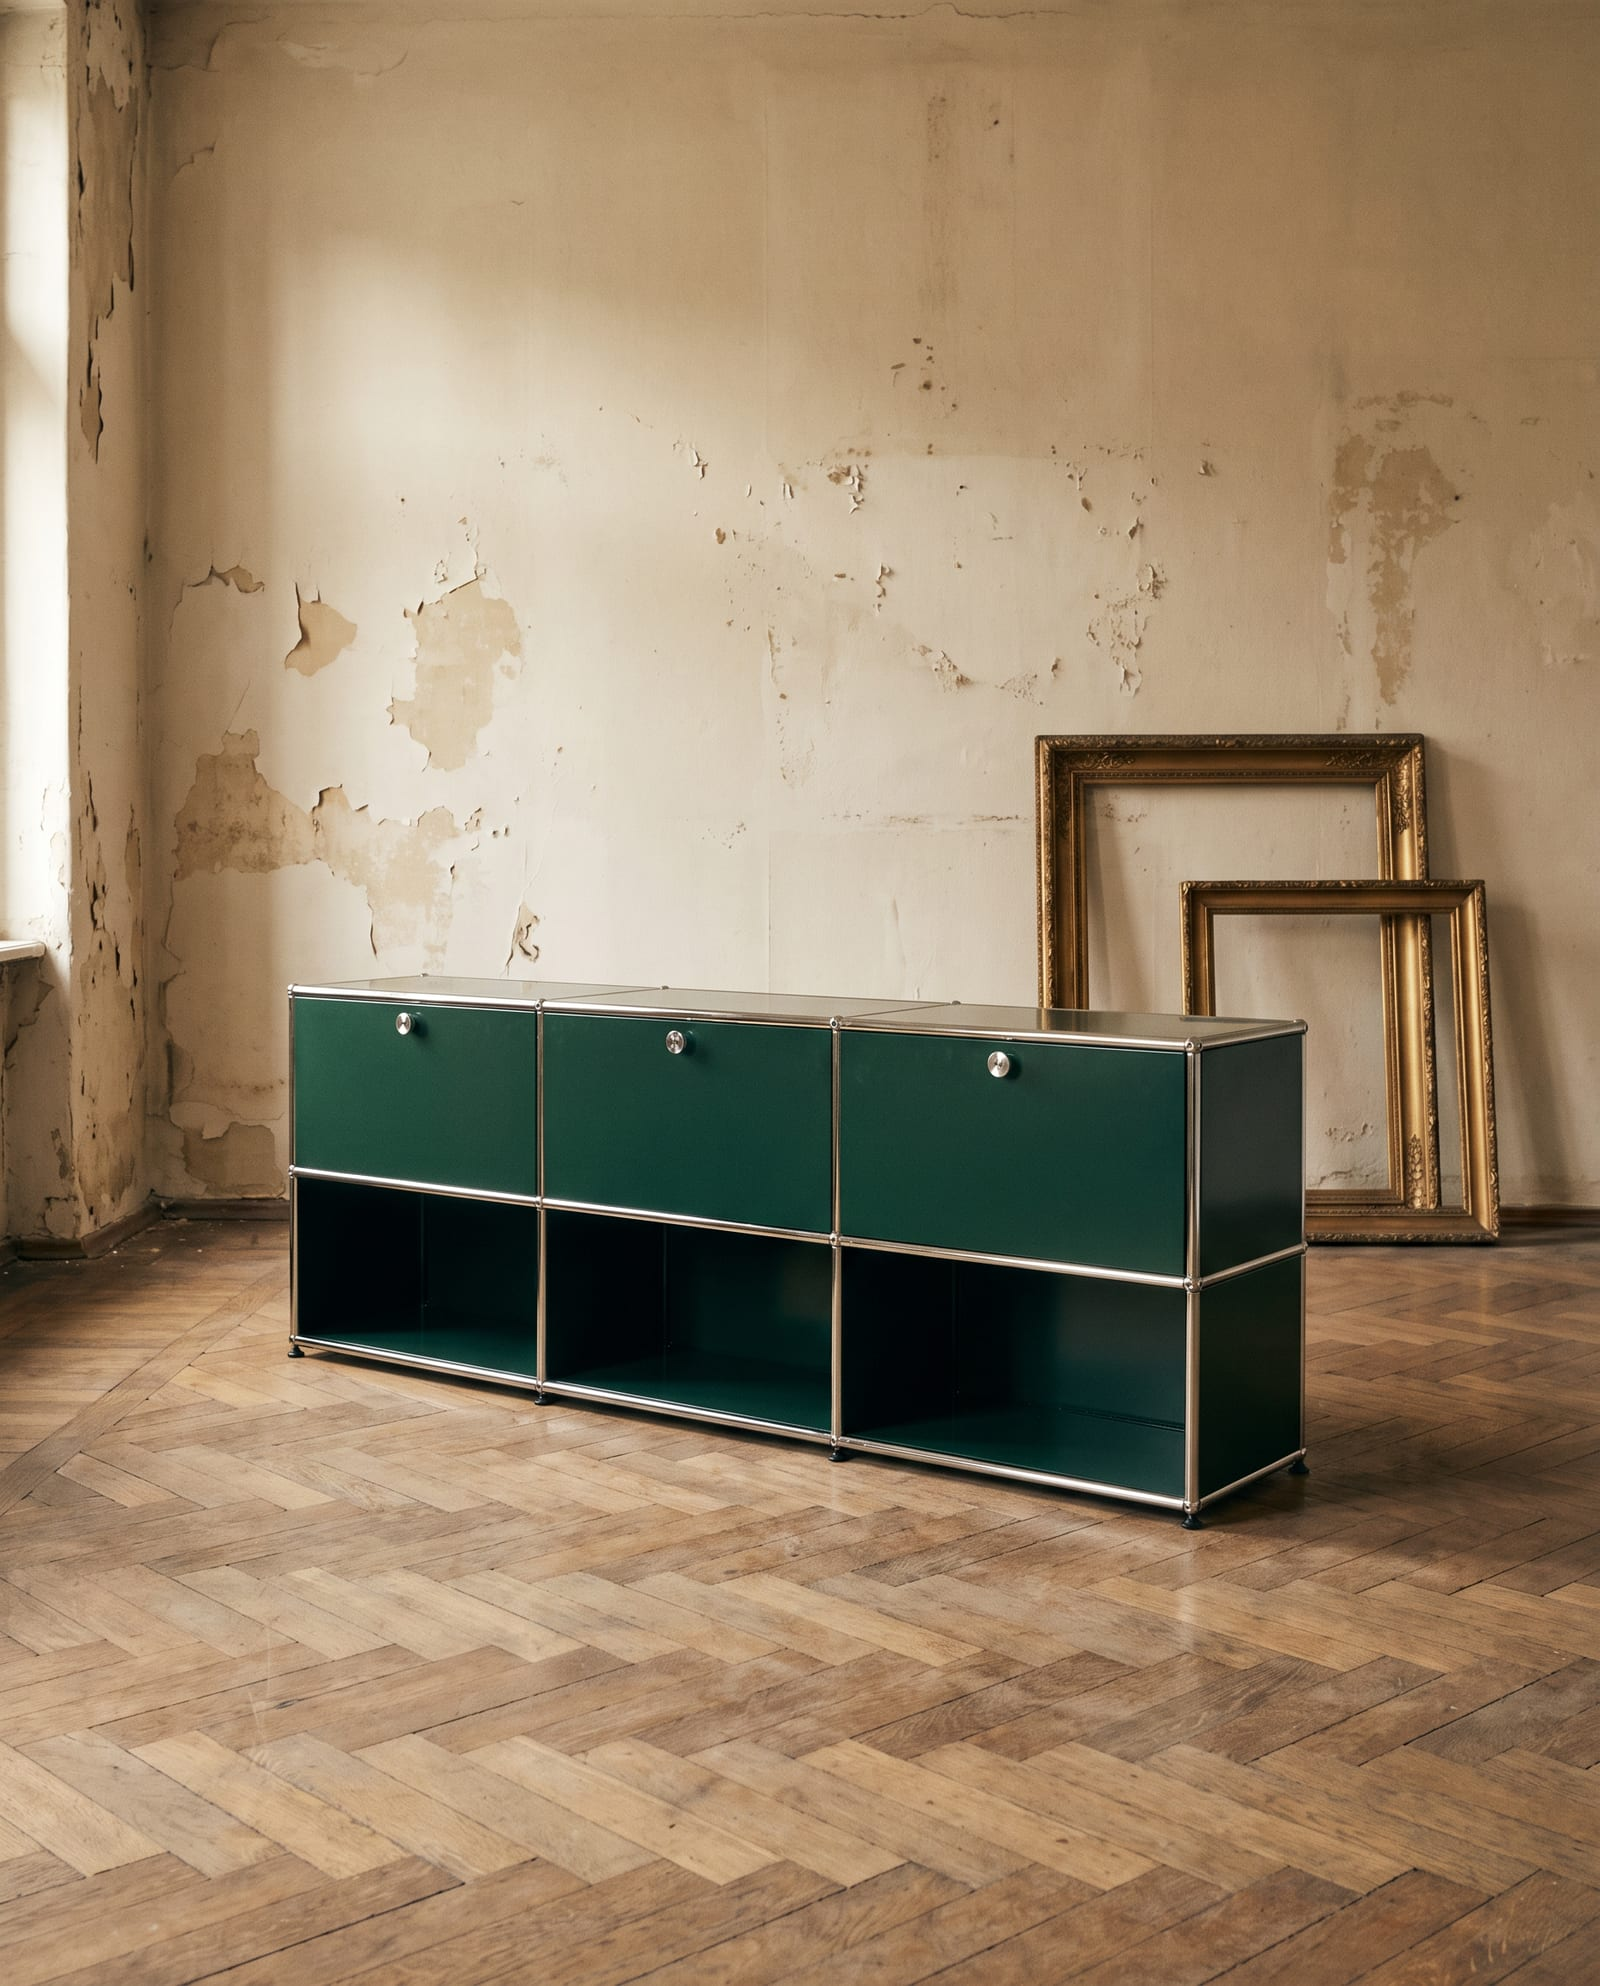
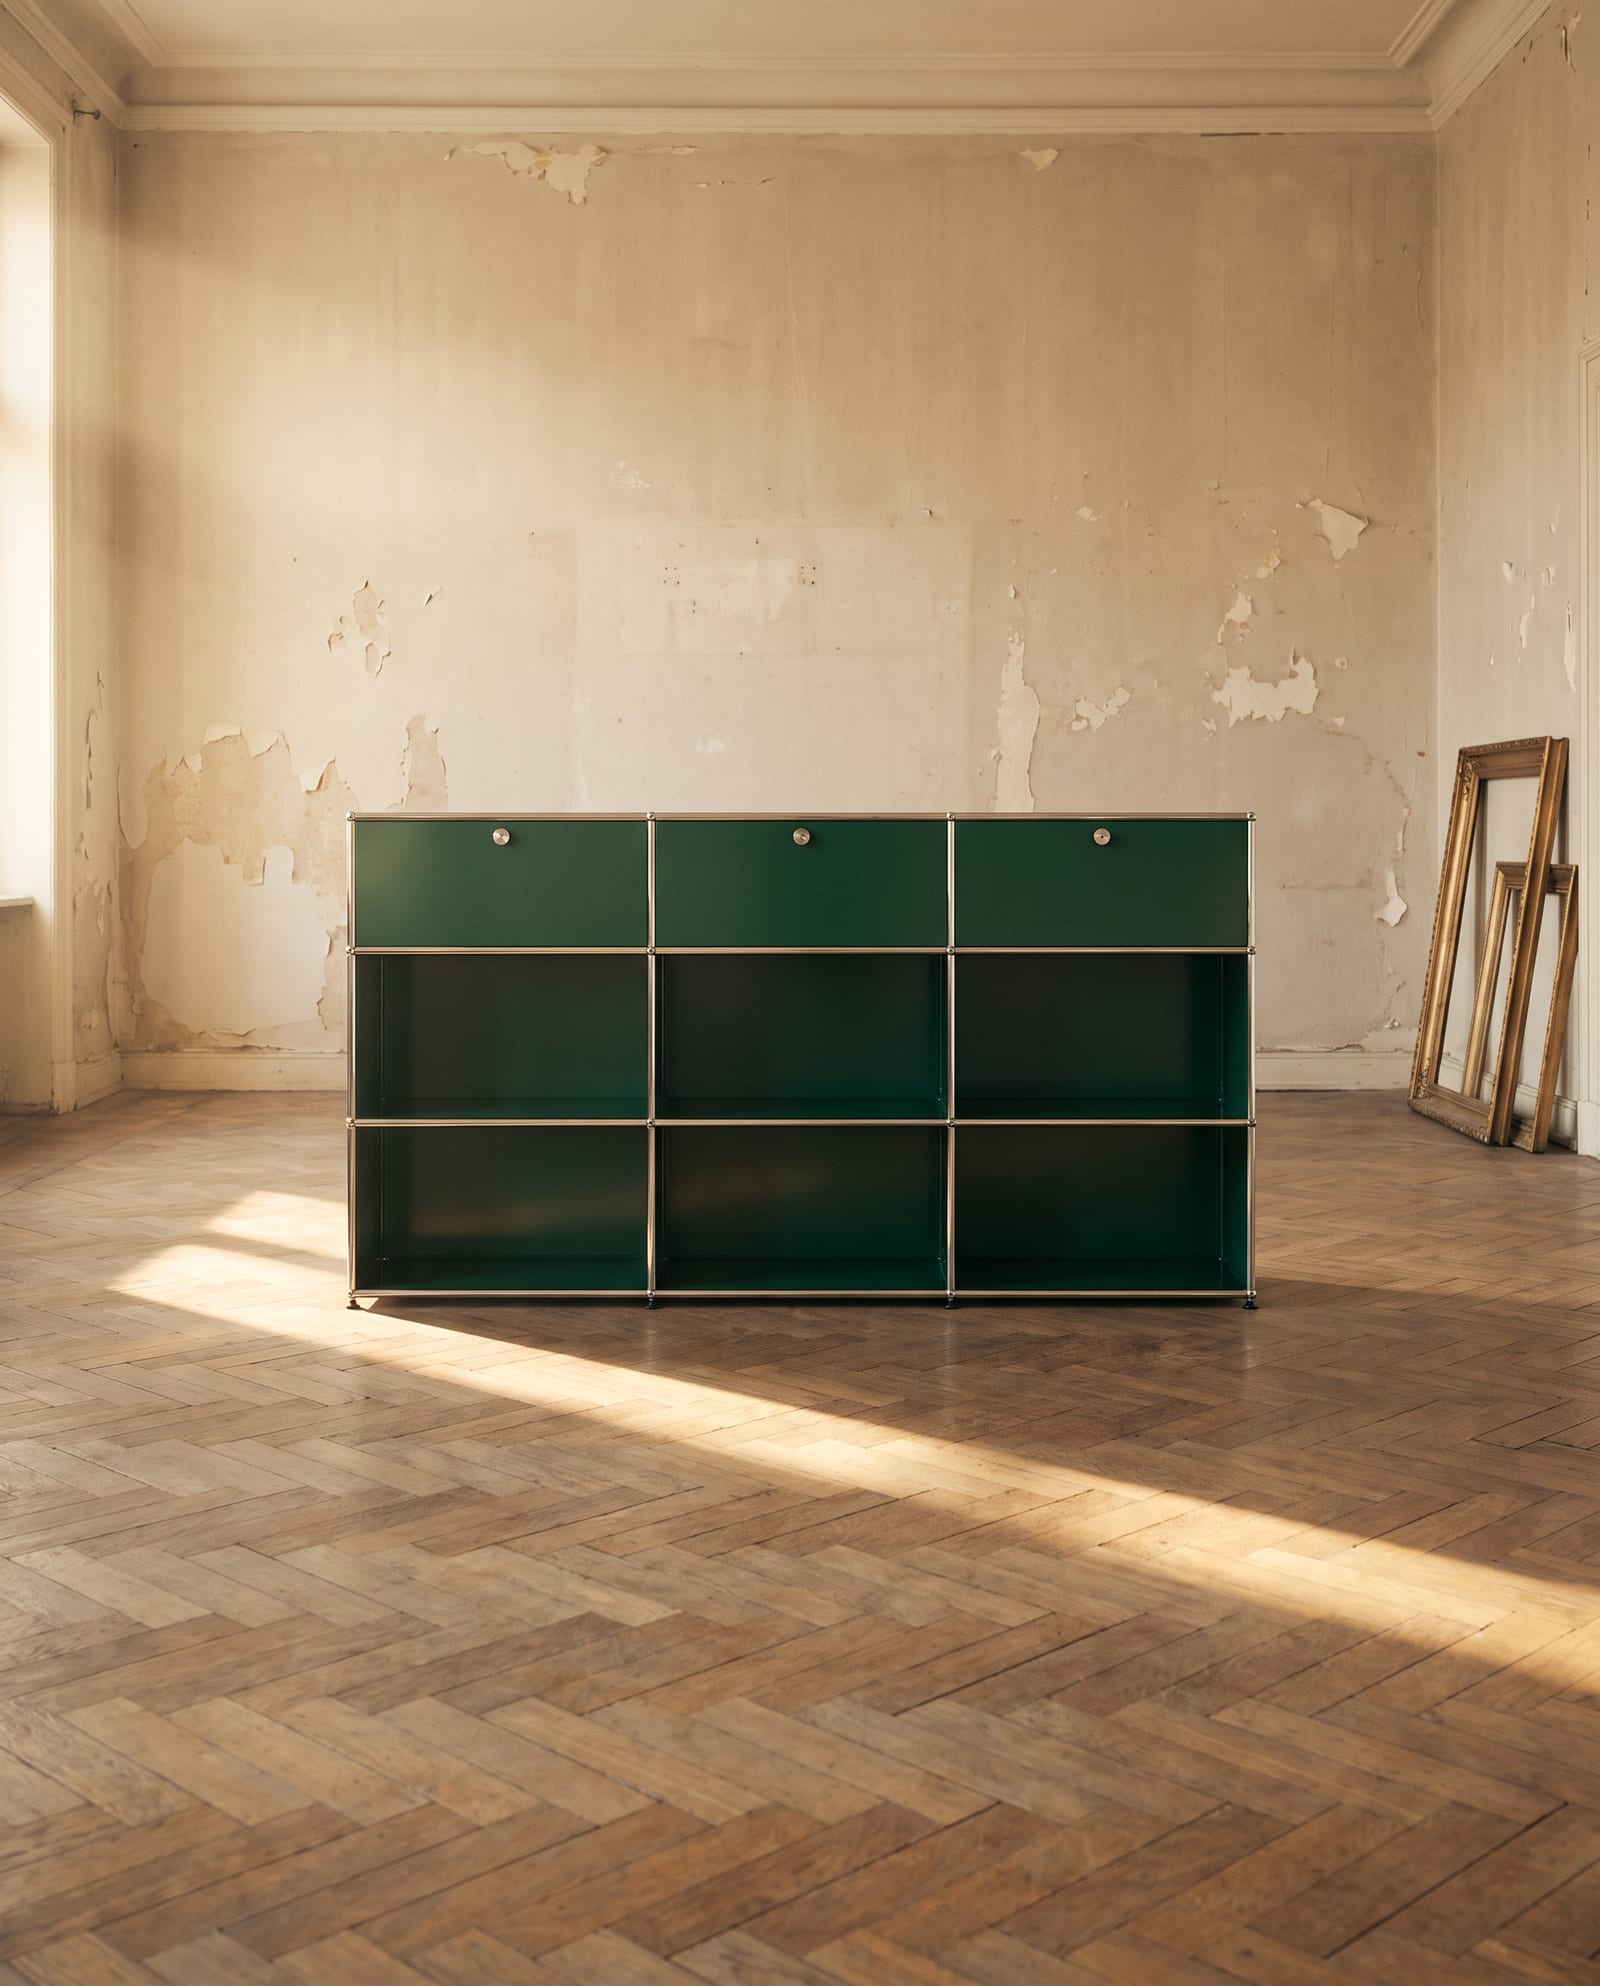
Runde 4 Design-Loop: Ein Lichtrezept fuer alle Kacheln, Claim einzeilig in Gips
GOLD/SAND/TANNE/KREIDE/RUBIN neu mit identischem Rezept (harter
Strahl von links, Schattenwurf nach rechts, leere Buehne, halbe
Framebreite Moebel); Hero-Claim einzeilig in Gips; aktiver Filter
mit doppelter Innenlinie.

diff --git a/app/globals.css b/app/globals.css
@@ -210,7 +210,7 @@ button {
 }
 
 .pill.is-active {
-  box-shadow: inset 0 0 0 1px var(--walnut);
+  box-shadow: inset 0 0 0 2px var(--linen), inset 0 0 0 3px var(--walnut);
   font-weight: 700;
 }
 
@@ -386,11 +386,19 @@ button {
 
 .hero-claim {
   margin-top: 20px;
-  font-size: 19px;
+  font-size: 17px;
   font-weight: 700;
   line-height: 1.4;
-  max-width: 28ch;
+  color: var(--linen);
+  white-space: nowrap;
   animation: rise 1s 0.26s var(--ease-out) both;
+}
+
+@media (max-width: 760px) {
+  .hero-claim {
+    white-space: normal;
+    max-width: 26ch;
+  }
 }
 
 @media (max-width: 860px) {

diff --git a/components/Hero.tsx b/components/Hero.tsx
@@ -23,8 +23,7 @@ export default function Hero() {
             Haller
           </h1>
           <p className="hero-claim">
-            Aufbereitete Originale, neu pulverbeschichtet in Ihrer
-            RAL&#8209;Wunschfarbe.
+            Aufbereitete Originale — neu beschichtet in Ihrer RAL-Wunschfarbe.
           </p>
         </div>
       </div>
